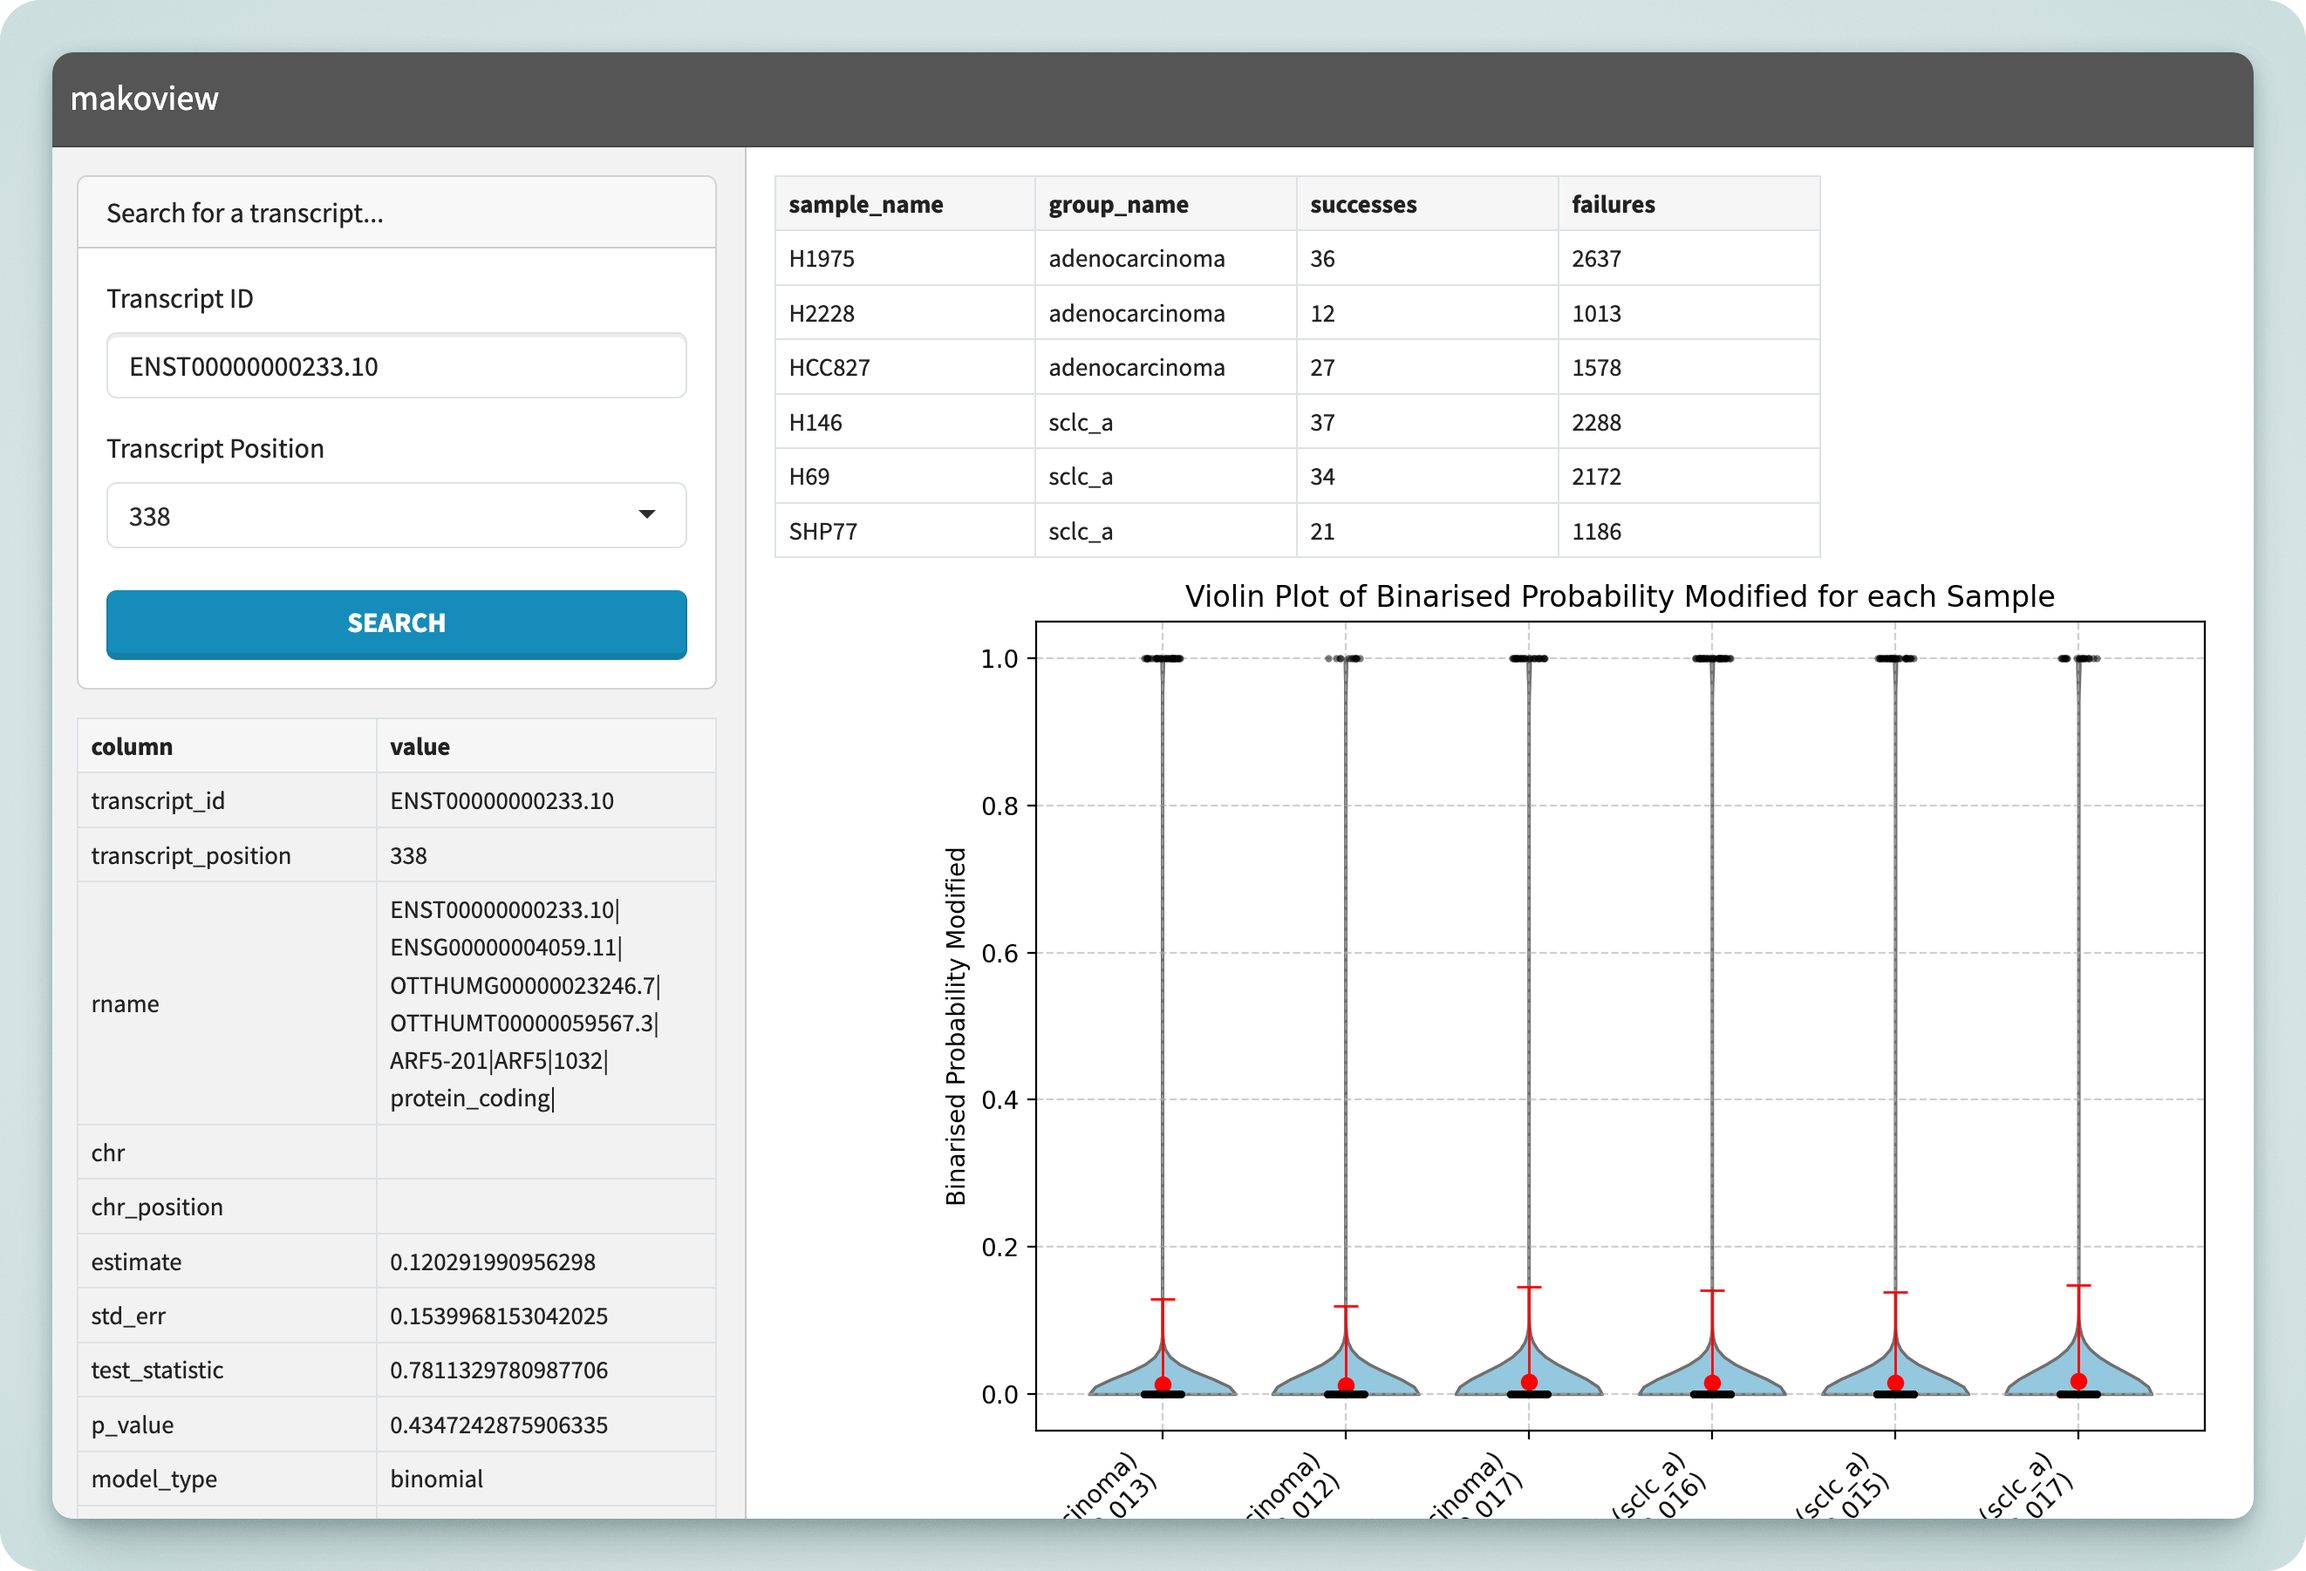
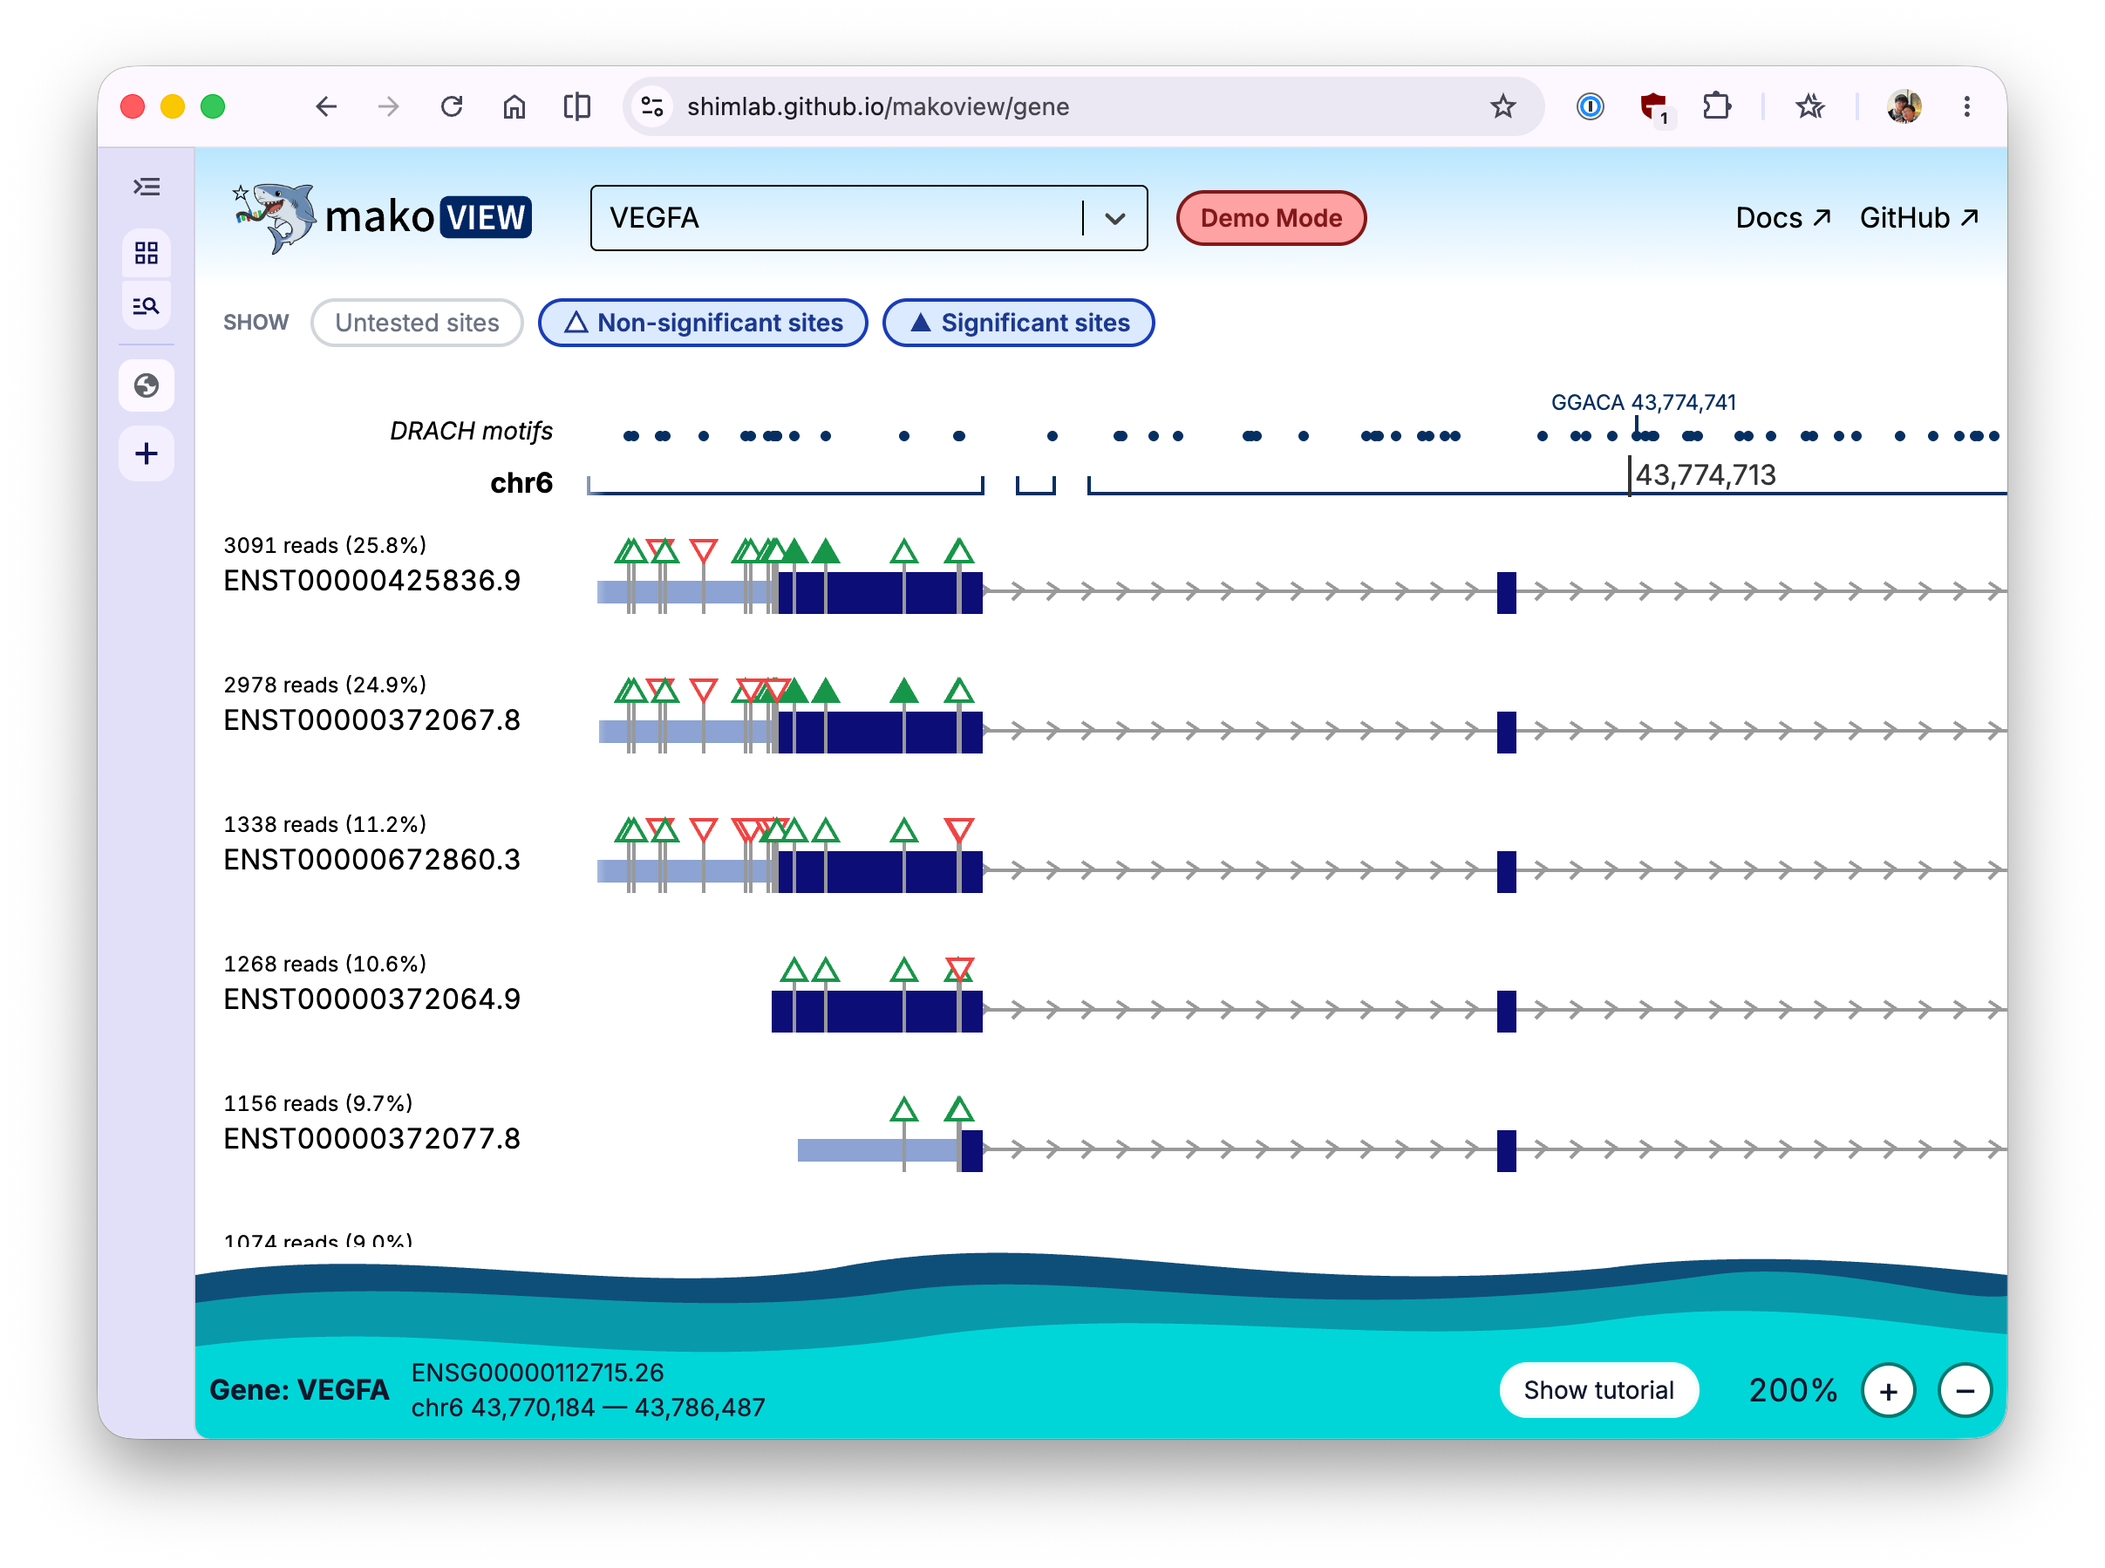
General updates to documentation

diff --git a/content/configuration.md b/content/configuration.md
@@ -9,6 +9,28 @@ title: Configuration
 
     Bug reports are highly welcome and we would greatly appreciate they be sent to our [GitHub Issues tracker](https://github.com/shimlab/mako/issues).
 
+## Installation
+
+You will need:
+
+- Nextflow
+- Docker **or** Singularity (Apptainer)
+- System Python version >= 3.9 with pip installed
+- Reference genome and transcriptome
+- Pre-modification-called data from Dorado or m<sup>6</sup>Anet, either in modBAM file or as a table of modification calls
+
+```bash title="bash: check dependencies and install Mako"
+# load nextflow, docker/singularity modules as needed
+modules load nextflow apptainer
+
+# check Python version is sufficient and pip exists
+python3 -c "import sys,pip; sys.exit(sys.version_info<(3,9))" && echo "Python OK" || echo "Python FAIL"
+
+# download the pipeline
+git clone https://github.com/shimlab/mako.git && cd mako
+nextflow run main.nf --help
+```
+
 
 ## Samplesheet
 
@@ -33,8 +55,9 @@ The samplesheet is a CSV file which contains information about the samples to be
     The file should be a .bam file in 'modbam' format i.e. with tags `MM` and `ML`. See the [Dorado documentation](https://software-docs.nanoporetech.com/dorado/latest/basecaller/mods/) for more information.
 
     Start Mako:
-    ```sh
+    ```bash title="bash"
     $ nextflow run main.nf \
+        -profile singularity \
         --samplesheet samplesheet.csv \
         --input_format modbam \
         --mod_threshold 0.5
@@ -60,8 +83,9 @@ The samplesheet is a CSV file which contains information about the samples to be
       If using m6Anet, this file is `data.indiv_proba.csv`. The file must have columns `transcript_id, transcript_position, read_index, probability_modified`.
 
     Start Mako:
-    ```sh
+    ```bash title="bash"
     $ nextflow run main.nf \
+        -profile singularity \
         --samplesheet samplesheet.csv \
         --input_format table \
         --mod_threshold 0.033379376
@@ -74,5 +98,10 @@ Two groups should be provided to call differential modifications between conditi
 
 
 ## Parameters
+
+!!! note
+    If your institution has an [nf-core configuration](https://nf-co.re/configs/) available, you can access it through `-profile` i.e. `-profile wehi` to use the WEHI Milton HPC. See [Execution Profiles](deployment.md#execution-profiles) for more.
+
+    Dependencies for Mako are distributed as container images for Docker and Singularity (Apptainer). If not using an nf-core configuration, run Mako using `-profile docker` or `-profile singularity`.
 
 --8<-- "includes/parameters.html"

diff --git a/content/makoview.md b/content/makoview.md
@@ -2,11 +2,35 @@
 title: makoview
 ---
 
-Mako comes with an interactive application called **_makoview_** which can be used to visualise the results once the pipeline has finished.
+Mako comes with an interactive application called **_makoview_** which can be used to visualise the results once the pipeline has finished. You can see an interactive demo of Makoview here: [https://shimlab.github.io/makoview/gene](https://shimlab.github.io/makoview/gene).
 
 ![makoview screenshot](./assets/makoview.png)
 
-## Installation
+## Install
+Makoview is automatically installed by the Mako pipeline into a virtual environment. Once the execution has completed, run:
+```sh
+$ <results_dir>/makoview/launch_makoview.sh
+```
+
+## Running on HPC
+
+On HPC systems, if you have SSH access, you can port forward the web server from the server to your local machine.
+
+```bash
+# launch the server on port within [10000, 65535], i.e.
+🛜 SERVER $ makoview <params> --port <abcde>
+
+# next, on your local machine, forward that port:
+👩💻 CLIENT $ ssh -N -L <abcde>:localhost:<abcde> username@hpc.server
+```
+
+You can now connect to Makoview locally using `http://127.0.0.1:<abcde>`.
+
+
+### Manual installation and usage
+
+!!! warning
+    Makoview depends on the output produced by Mako and is automatically installed by the Mako pipeline into a virtual environment. Run Makoview manually at your own risk!
 
 makoview is a Python package for Python 3.9 — 3.12.12, available on PyPI and downloadable through your preferred Python package manager.
 
@@ -23,8 +47,6 @@ $ uvx makoview --help        # or uvx --python 3.12 makoview --help
 ```
 
 [`pipx`](https://github.com/pypa/pipx) and [`uv`](https://docs.astral.sh/uv/) allow executables to be run within their own isolated environment, preventing dependency resolution issues. They are recommended over `pip install`.
-
-## Usage
 
 Makoview has three parameters:
 
@@ -51,17 +73,3 @@ makoview \
 ```
 
 This will launch a web server running on port `8000`, accessible at [http://127.0.0.1:8000](http://127.0.0.1:8000).
-
-### Running on HPC
-
-On HPC systems, if you have SSH access, you can port forward the web server from the server to your local machine.
-
-```bash
-# launch the server on port within [10000, 65535], i.e.
-🛜 SERVER $ makoview <params> --port <abcde>
-
-# next, on your local machine, forward that port:
-👩💻 CLIENT $ ssh -N -L <abcde>:localhost:<abcde> username@hpc.server
-```
-
-You can now connect to Makoview locally using `http://127.0.0.1:<abcde>`.

diff --git a/content/deployment.md b/content/deployment.md
@@ -28,11 +28,11 @@ To run this pipeline, it is strongly recommended to use Docker or Singularity/Ap
 If you are unable to use containers through Nextflow (strongly recommended), we release images with almost all dependencies bundled on GitHub Packages for:
 
 - Docker: [`ghcr.io/olliecheng/mako_main_docker`](https://github.com/users/olliecheng/packages/container/package/mako_main_docker)
-- Singularity/Apptainer: [`ghcr.io/olliecheng/mako_main_singularity`](https://github.com/users/olliecheng/packages/container/package/mako_main_singularity)  
+- Singularity/Apptainer: [`oras://ghcr.io/olliecheng/mako_main_singularity`](https://github.com/users/olliecheng/packages/container/package/mako_main_singularity)  
   This is an ORAS endpoint, so Singularity can pull without first needing to convert from Docker images, which can take a long time. Do not use this image with Docker, it will fail.
 
 If you are using these images manually, make sure to use a tagged version, as each version is tagged alongside the Mako build commit that it supports.
 
 ### Containerless deployment
 
-To install the dependencies manually, you can install necessary software using [the Dockerfile and build scripts](https://github.com/shimlab/mako/tree/main/image) as a guide. See `install_R_dependencies.R` and `requirements.txt` for R and Python dependencies respectively.
+To install the dependencies manually, you can install necessary software using [the Dockerfile and build scripts](https://github.com/shimlab/mako/tree/main/image) as a guide. See `install_R_dependencies.R` and `requirements.txt` for R and Python dependencies respectively. This approach is not officially supported, as we cannot guarantee dependencies will be installed correctly on your machine.

diff --git a/content/index.md b/content/index.md
@@ -9,10 +9,7 @@ If you already have pre-basecalled data or m6Anet results, you can skip the base
 The software is written in Nextflow and utilises Docker/Singularity containerisation for reproducibility and ease of installation.
 
 !!! tip
-    See [Getting Started](getting-started.md) for instructions on how to install and run the pipeline.
-
-!!! note
-    **mako** is in active development and not all features are supported. See [Configuration](configuration.md) for a list of what features are in-progress.
+    See [Configuration](configuration.md) for instructions on how to install and run the pipeline.
 
 ---
 
